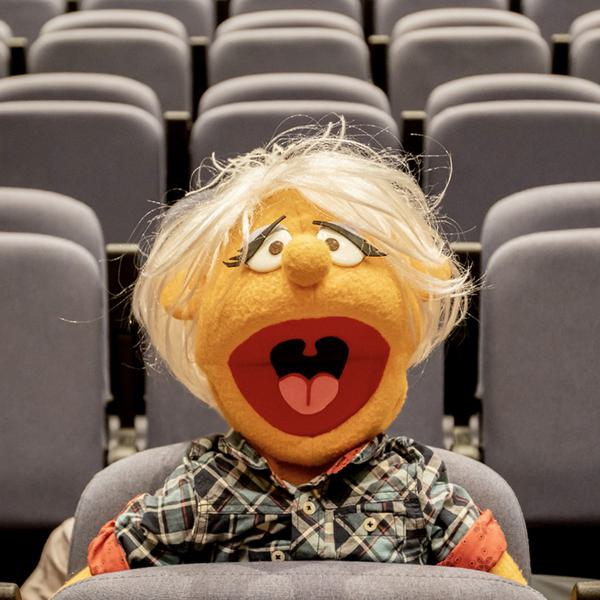
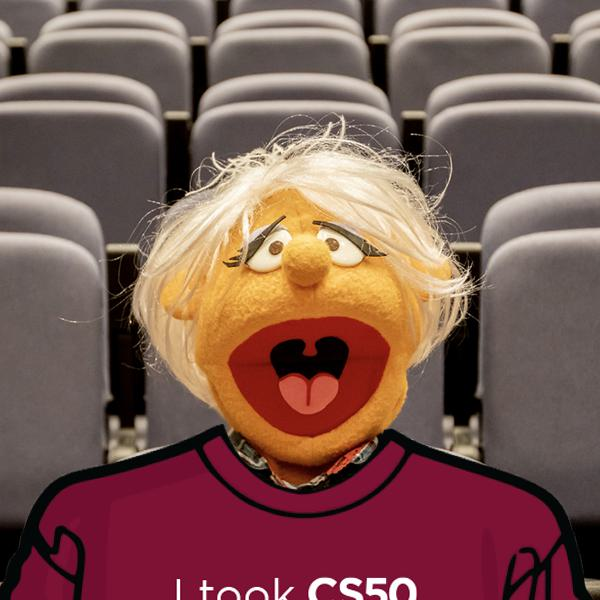
updates

Changed region(s): [[0.0, 0.69, 0.99, 1.0]]

diff --git a/shirt.py b/shirt.py
@@ -5,15 +5,41 @@ from PIL import Image
 
 try:
     if len(sys.argv) == 3:
-        in_file = "before1.jpg" #sys.argv[1]
-        out_file = "after1.jpg" #sys.argv[2]
+        
+        in_file = sys.argv[1]
+        out_file = sys.argv[2]
+        shirt_img = "shirt.png"
 
 
+        with Image.open(in_file) as im:
+            #(width, height) = (im.width//2, im.height//2)
+            target_size = (600, 600)
+            img_resized = im.resize((im.width // 2, im.height // 2))
 
-       
+            # Calculate dimensions for cropping
+            width, height = img_resized.size
+            left = 0
+            top = (height - target_size[1]) // 2
+            right = target_size[0]
+            bottom = top + target_size[1]
+
+            # Crop the image
+            img_cropped = img_resized.crop((left, top, right, bottom))
+
+            if img_cropped.mode != 'RGBA':
+                    img_cropped = img_cropped.convert('RGBA')
+
+            with Image.open(shirt_img) as shirt:
+
+                if shirt.mode != 'RGBA':
+                    shirt = shirt.convert('RGBA')
 
 
+                result = Image.alpha_composite(img_cropped, shirt)
+                result = result.convert('RGB')
 
+
+                result.save(out_file, format="JPEG")
 
 
     elif len(sys.argv) >= 2:

diff --git a/junksss.py b/junksss.py
@@ -7,6 +7,7 @@ from PIL import Image
 
 in_file = "before1.jpg" #sys.argv[1]
 out_file = "after1.jpg" #sys.argv[2]
+shirt_img = "shirt.png"
 
 
 with Image.open(in_file) as im:
@@ -23,7 +24,20 @@ with Image.open(in_file) as im:
 
     # Crop the image
     img_cropped = img_resized.crop((left, top, right, bottom))
-    
+
+    if img_cropped.mode != 'RGBA':
+            img_cropped = img_cropped.convert('RGBA')
+
+    with Image.open(shirt_img) as shirt:
+
+        if shirt.mode != 'RGBA':
+            shirt = shirt.convert('RGBA')
 
 
-img_cropped.save(out_file, format='JPEG')
+        result = Image.alpha_composite(img_cropped, shirt)
+        result = result.convert('RGB')
+
+
+        result.save(out_file, format="JPEG")
+        
+
